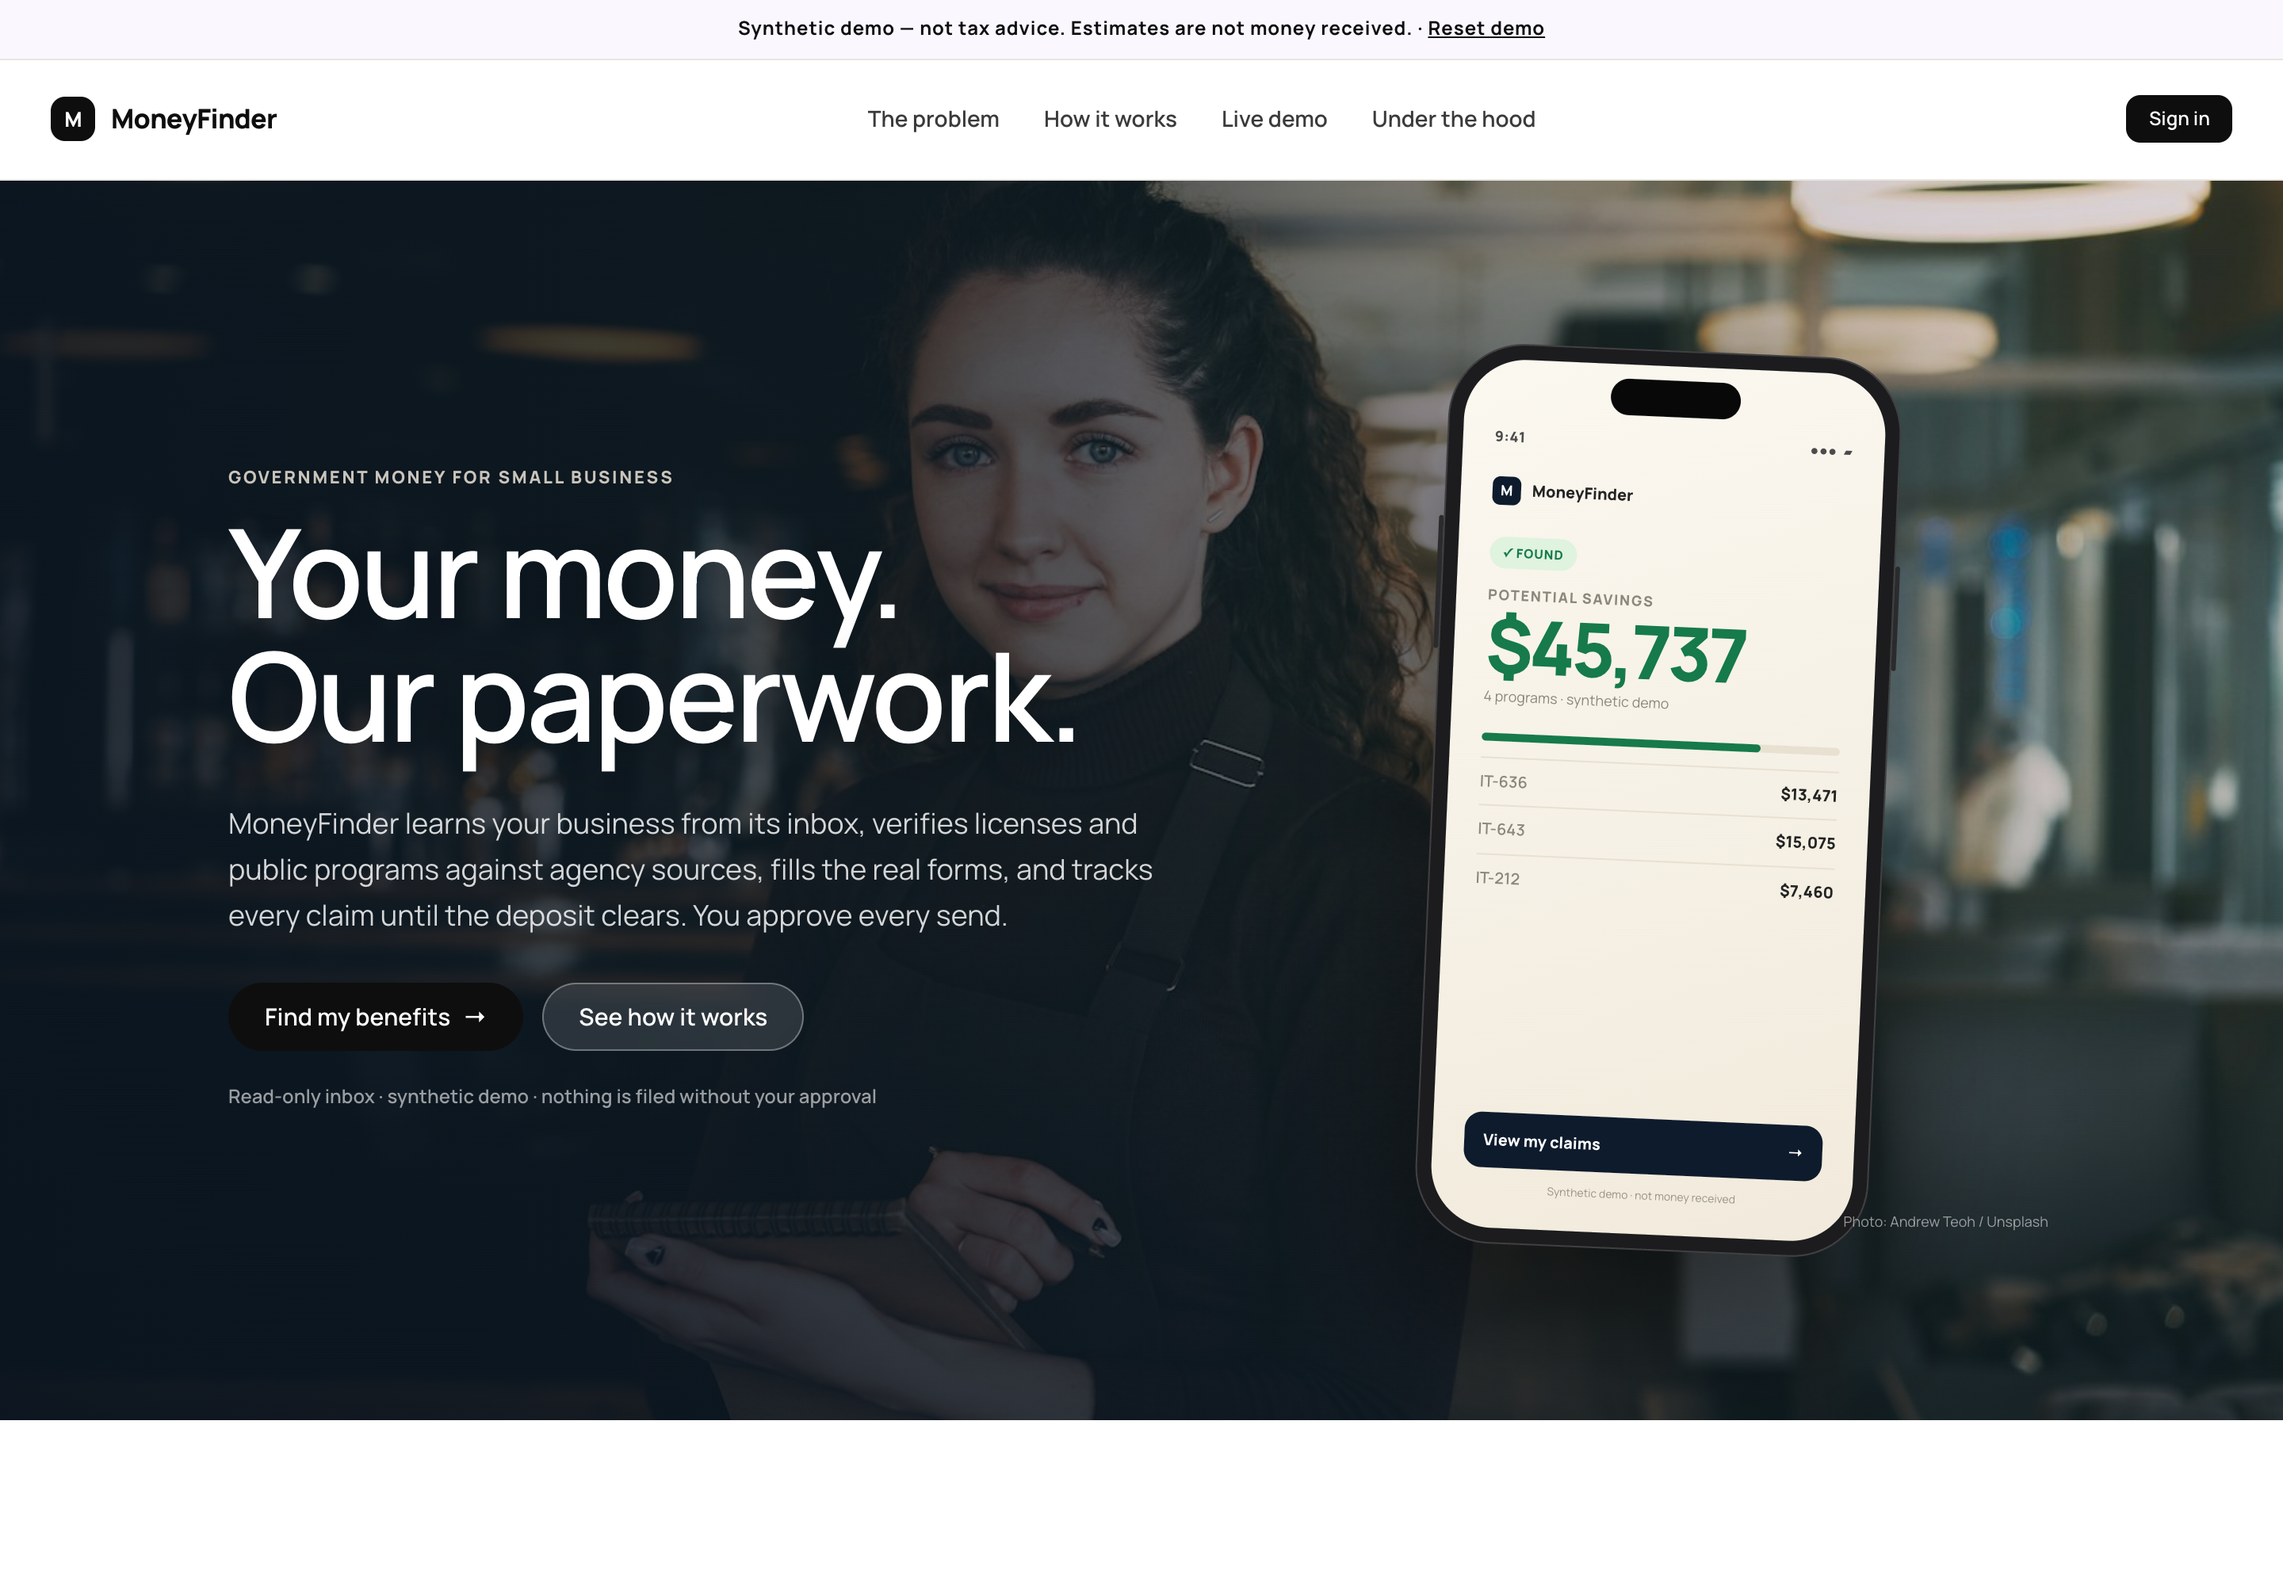
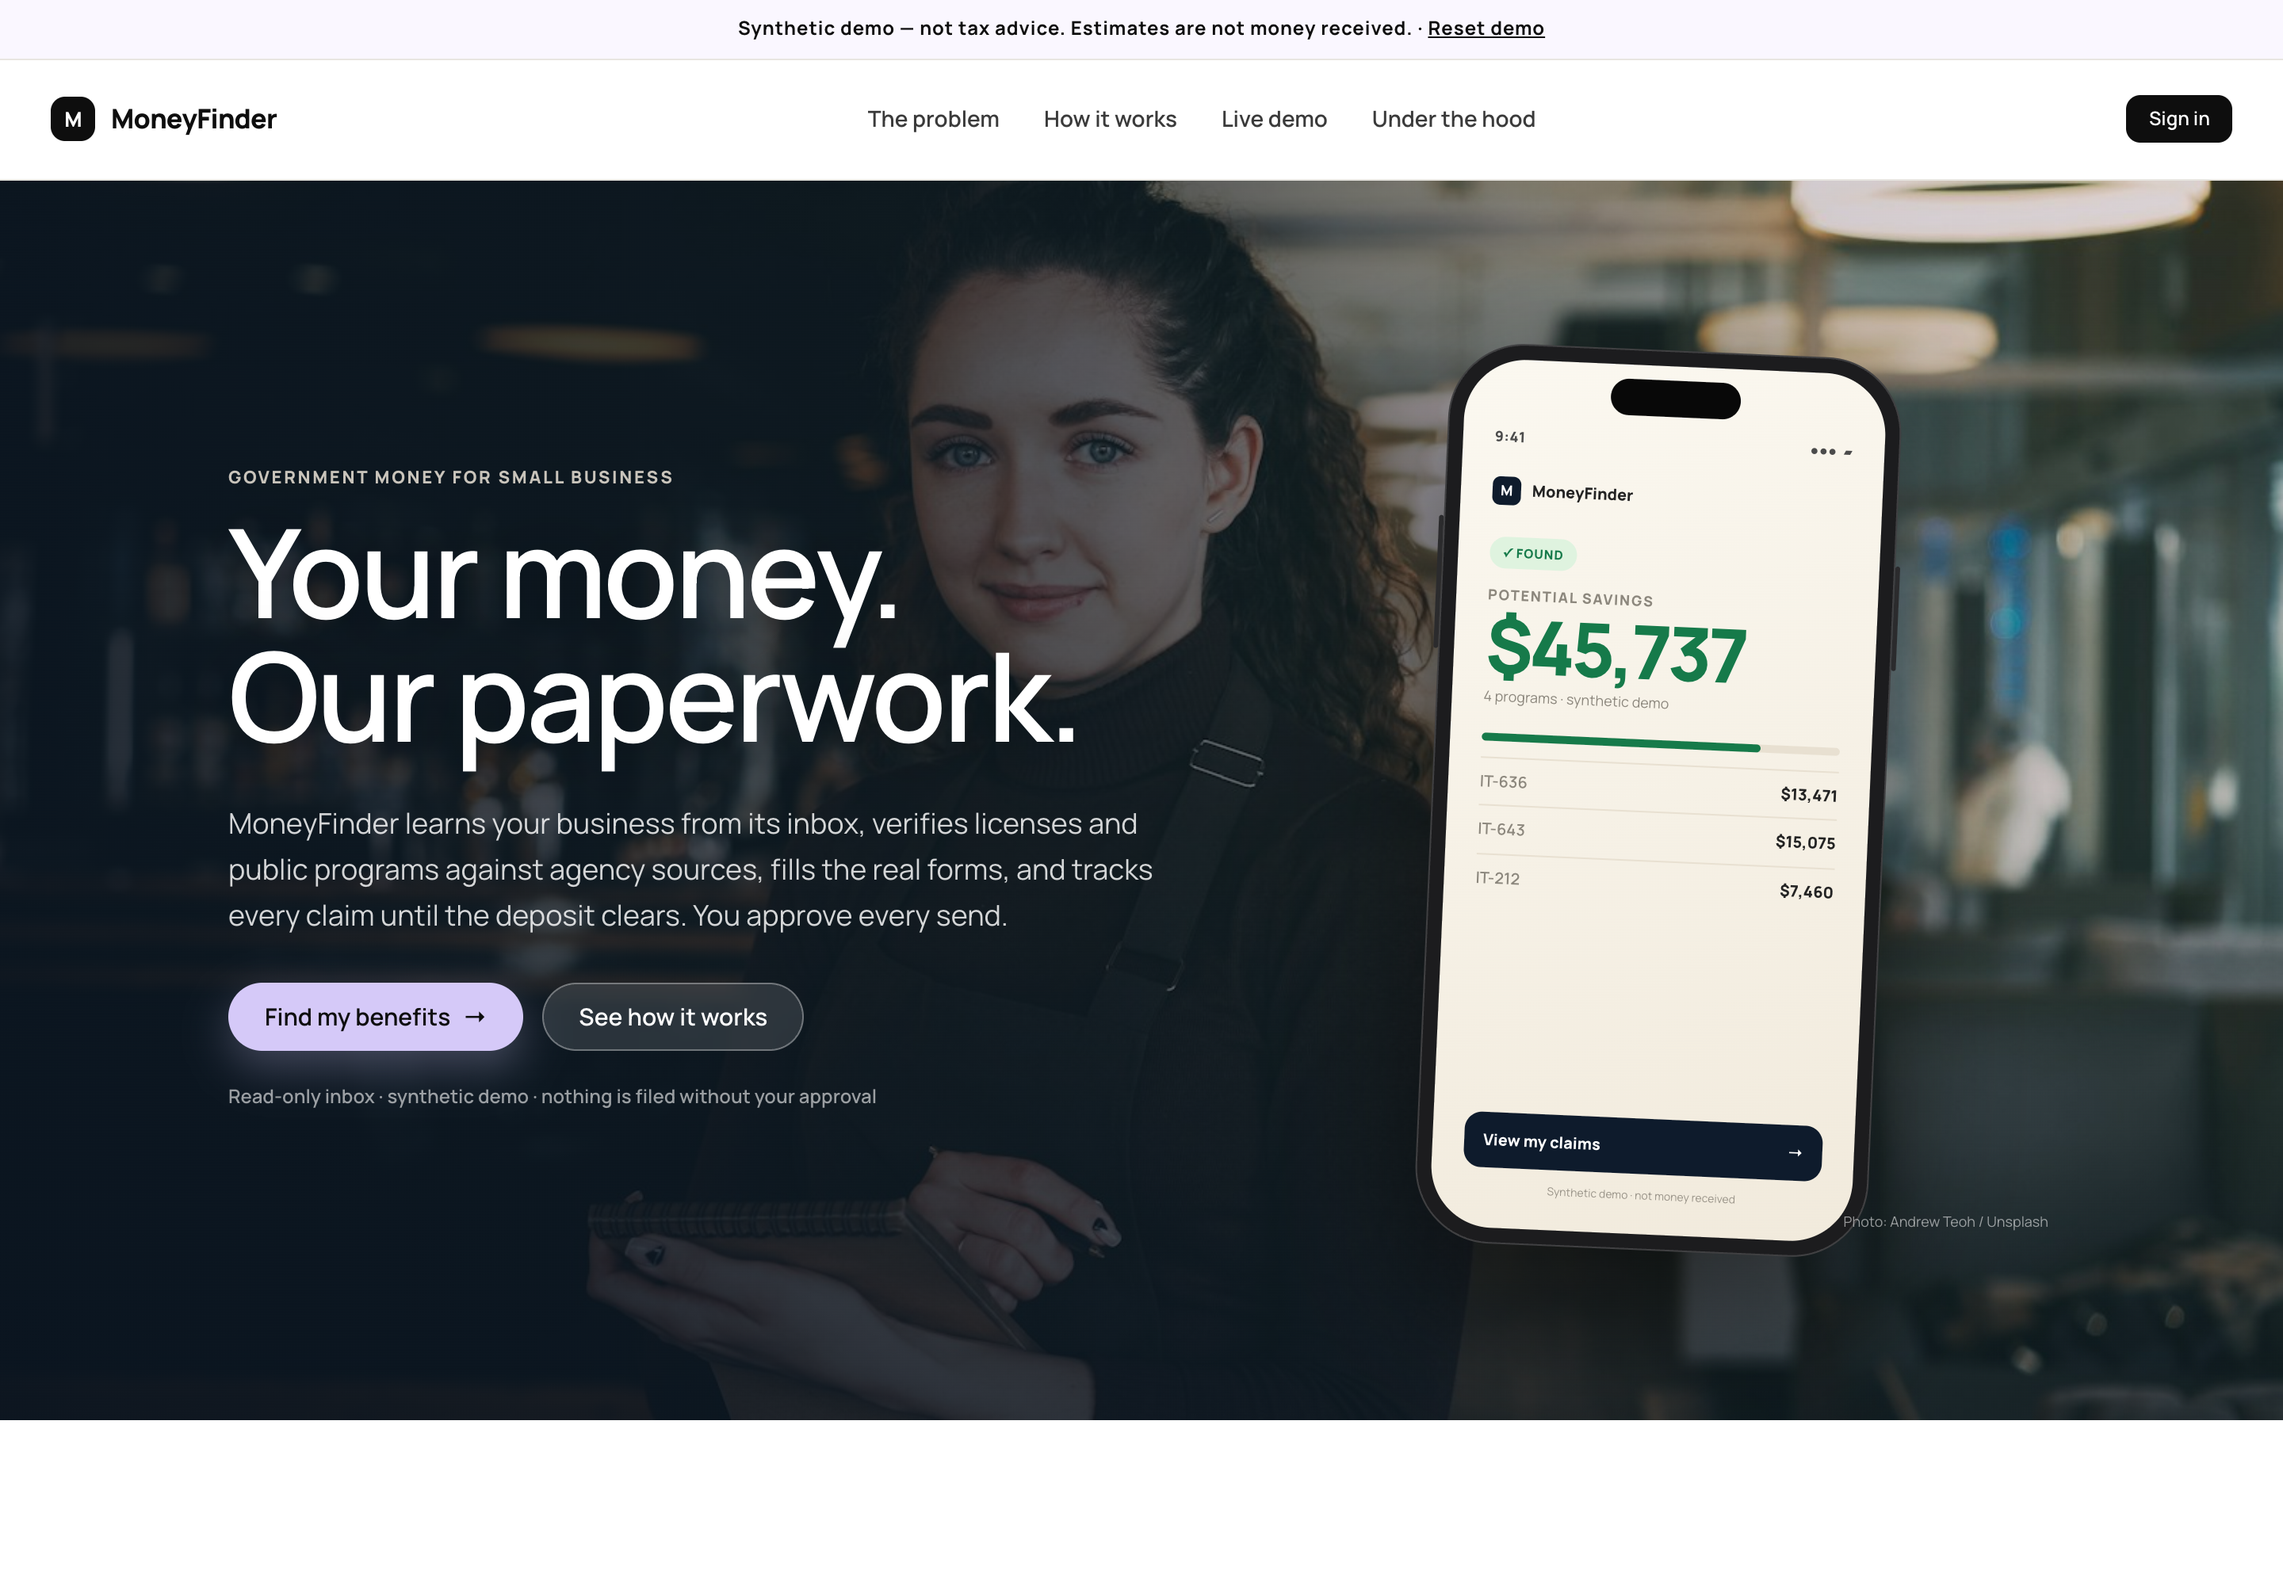
feat(landing): brand-color Find my benefits CTA

Changed region(s): [[0.0938, 0.62, 0.25, 0.682]]

diff --git a/app/templates/landing.html b/app/templates/landing.html
@@ -11,7 +11,7 @@
       <h1 class="display"><span>Your money.</span><span>Our paperwork.</span></h1>
       <p class="lede">MoneyFinder learns your business from its inbox, verifies licenses and public programs against agency sources, fills the real forms, and tracks every claim until the deposit clears. You approve every send.</p>
       <div class="hero-actions">
-        <a class="btn primary" href="{{ url_for('flow.signin') }}">Find my benefits <span class="arrow">→</span></a>
+        <a class="btn brand" href="{{ url_for('flow.signin') }}">Find my benefits <span class="arrow">→</span></a>
         <a class="btn ghost" href="#how">See how it works</a>
       </div>
       <p class="trust-line">Read-only inbox · synthetic demo · nothing is filed without your approval</p>
@@ -201,7 +201,7 @@
 <section class="cta-band">
   <div class="cta-inner">
     <h2>Your business is already owed money.<br>Let’s do the paperwork.</h2>
-    <a class="btn primary" href="{{ url_for('flow.signin') }}">Find my benefits <span class="arrow">→</span></a>
+    <a class="btn brand" href="{{ url_for('flow.signin') }}">Find my benefits <span class="arrow">→</span></a>
     <p class="trust-line">Synthetic demo · no real Gmail · no real filing</p>
   </div>
 </section>

diff --git a/app/static/css/app.css b/app/static/css/app.css
@@ -805,3 +805,9 @@ select:focus, input:focus { outline: 2px solid var(--ink); outline-offset: 1px; 
   .iphone-amount { font-size: 34px; }
   .hero-photo-credit { right: 0; bottom: 0; }
 }
+
+
+/* ---------- brand CTA ---------- */
+.btn.brand { background: var(--lavender-strong); border-color: var(--lavender-strong); color: var(--ink); box-shadow: 0 10px 28px rgba(213, 201, 248, .28); }
+.btn.brand:hover { background: #c7b8f4; border-color: #c7b8f4; }
+.cta-band .btn.brand { box-shadow: 0 12px 30px rgba(213, 201, 248, .4); }
